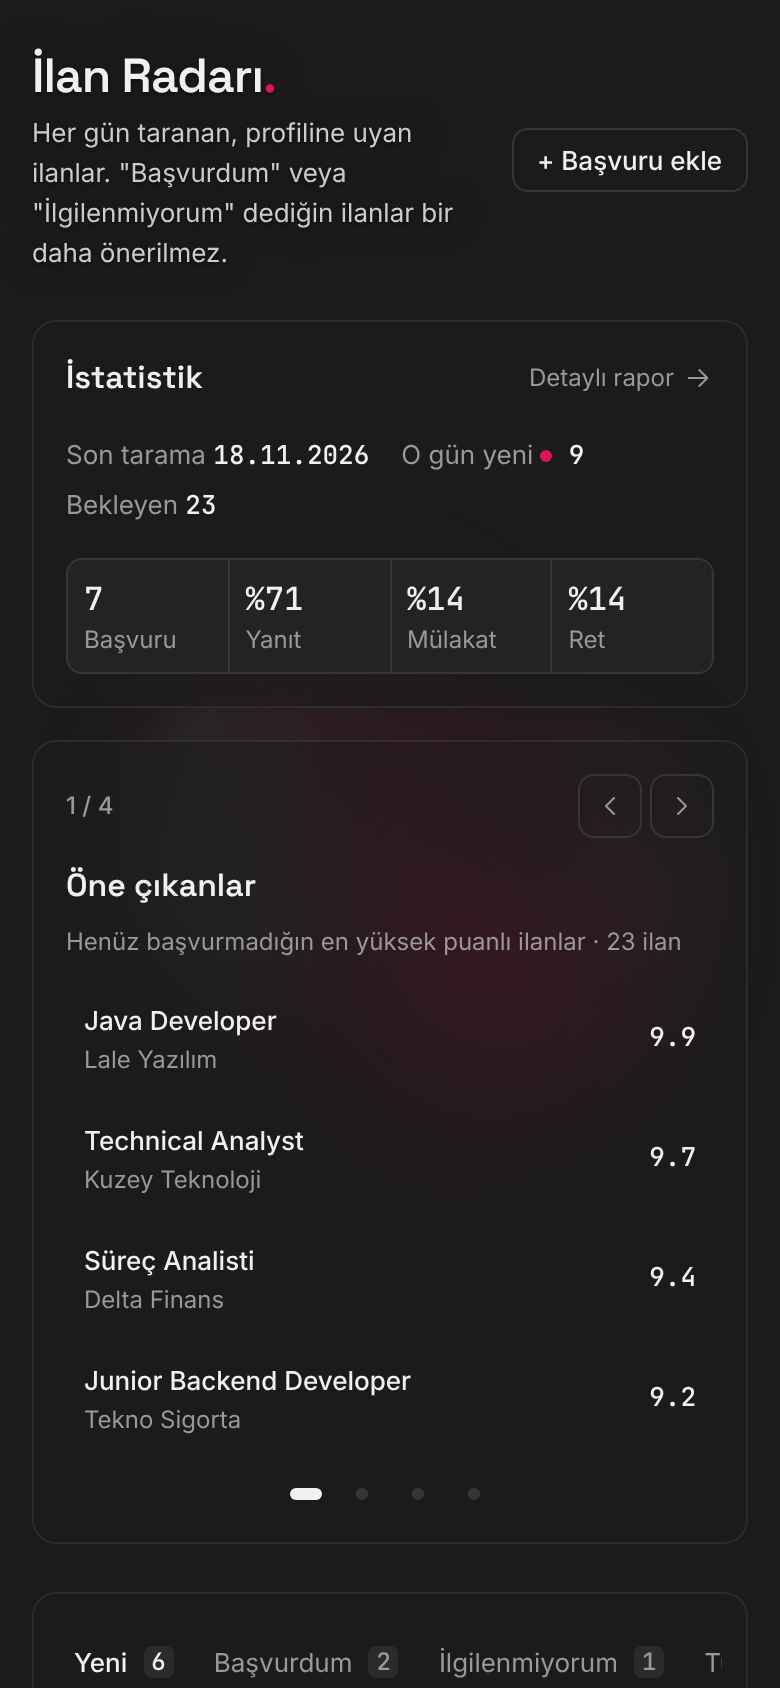
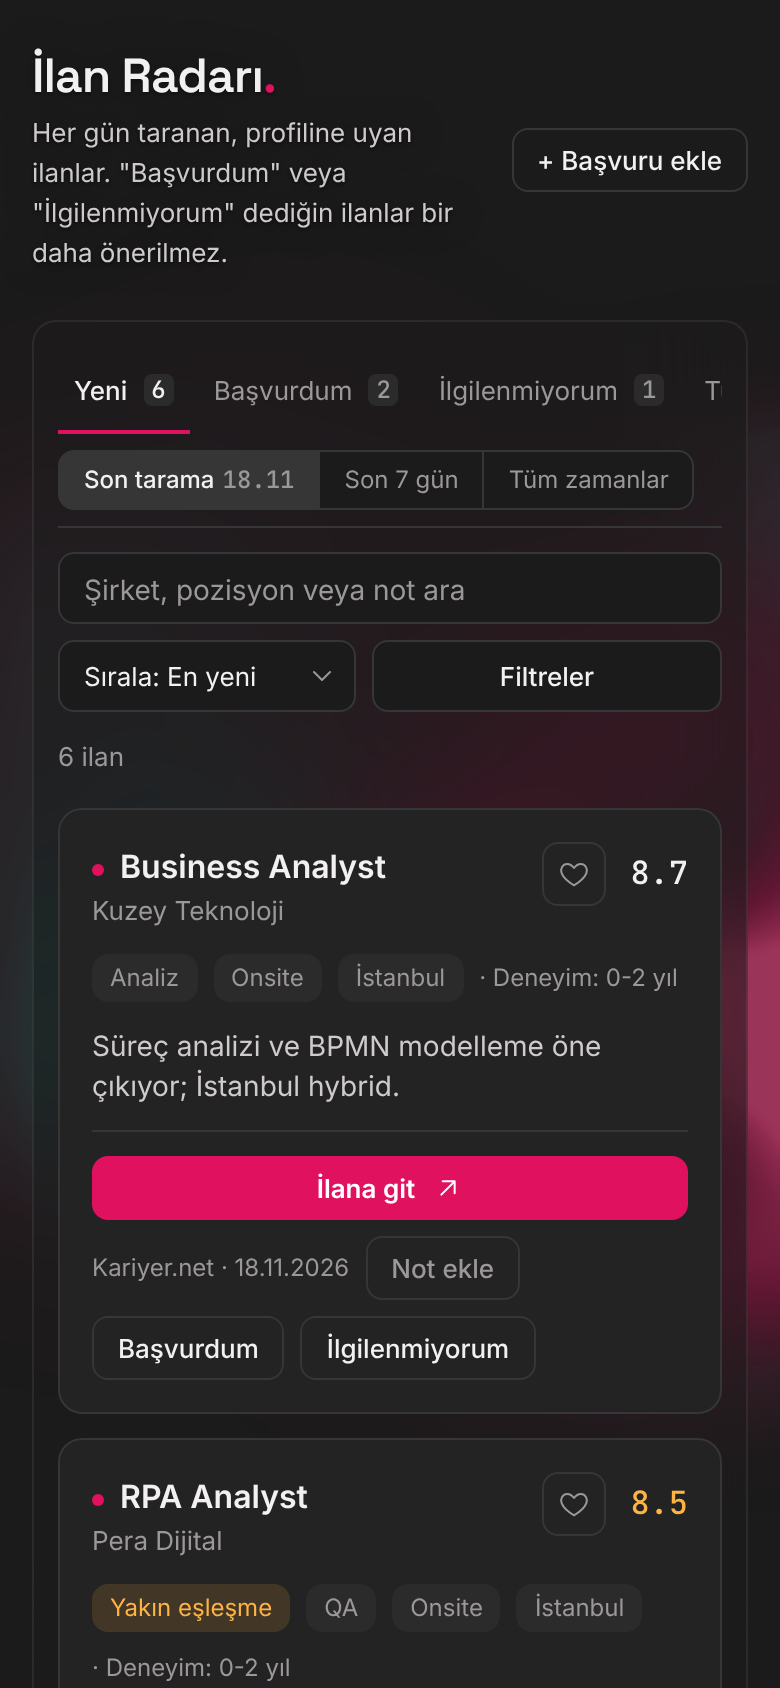
Dar ekranda ilan panelini en üste al; README telefon görüntüsünü yenile (sürüm 35)
Claude-Session: https://claude.ai/code/session_015CCGvTjaieDPnZSJMM3VWD

diff --git a/ilan-radari.html b/ilan-radari.html
@@ -287,9 +287,9 @@ select.set{border-color:var(--muted);background:var(--surface-2);font-weight:500
 .sthead svg{width:16px;height:16px;fill:none;stroke:currentColor;stroke-width:1.5;stroke-linecap:round;stroke-linejoin:round}
 @media (min-width:900px){.statsv{padding:32px 28px}}
 
-/* Dar ekran: sağ sütun ilan panelinin üstüne gelir; orta genişlikte önizleme ve slaytlar yan yana */
+/* Dar ekran: ilan paneli en üstte, sağ sütun altına gelir; orta genişlikte önizleme ve slaytlar yan yana */
 @media (max-width:1079px){
-  .dash{grid-template-columns:minmax(0,1fr);grid-template-areas:"aside" "main"}
+  .dash{grid-template-columns:minmax(0,1fr);grid-template-areas:"main" "aside"}
   .aside{position:static;display:grid;grid-template-columns:minmax(0,1fr) minmax(0,1fr);align-items:stretch}
 }
 @media (max-width:719px){
